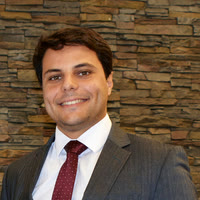
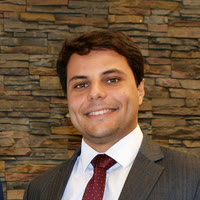
Início: avatares JF e DR com o rosto centrado

diff --git a/index.html b/index.html
@@ -102,7 +102,7 @@
       <div class="sc-prog"><span id="sc-bar"></span></div>
     </div>
     <div class="nc-bar">
-      <span class="nc-av has-photo" aria-hidden="true"><i><img src="assets/img/fotos/avatar-jf.jpg?v=2" alt="" width="200" height="200"></i><i><img src="assets/img/fotos/avatar-dr.jpg?v=2" alt="" width="200" height="200"></i></span>
+      <span class="nc-av has-photo" aria-hidden="true"><i><img src="assets/img/fotos/avatar-jf.jpg?v=3" alt="" width="200" height="200"></i><i><img src="assets/img/fotos/avatar-dr.jpg?v=3" alt="" width="200" height="200"></i></span>
       <p data-i18n="nc.bar2">Dois advogados. Uma abordagem <b>conjunta e criteriosa.</b></p>
       <a class="btn btn-a" href="areas.html"><span data-i18n="nc.all">Ver todas as áreas</span><span class="sq"><svg viewBox="0 0 16 16" fill="none" stroke="currentColor" stroke-width="1.5" aria-hidden="true"><path d="M5 11L11 5M6 5h5v5"/></svg></span></a>
     </div>
